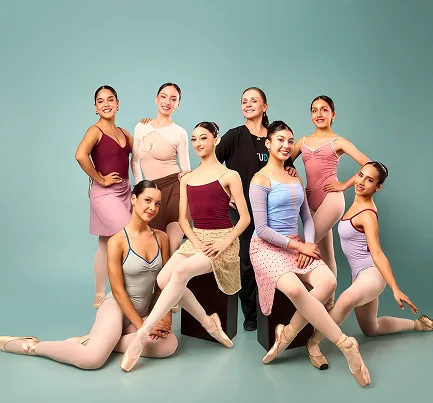
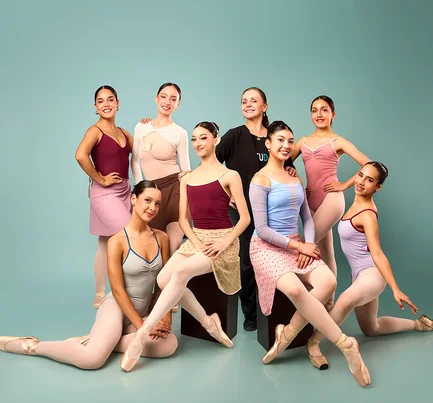
Foto grupal en 2x para pantallas retina
El cliente la veia borrosa: el archivo era de 433px nativos, o sea 1x
justo, y en un movil retina se mostraba interpolada.

Verificado que el x2 que enviaron tiene 1.36x mas detalle real que el
original ampliado, asi que no es un reescalado.

- foto-grupal.webp     433x403   23 KB  (1x, sale de reducir la 2x)
- foto-grupal@2x.webp  866x806   53 KB  (2x, mas comprimida porque se
                                         muestra a la mitad de tamaño)
- foto-grupal.png      433x403          (respaldo sin WebP)

Con srcset 1x/2x la version pesada solo la bajan las pantallas que la
aprovechan, y va lazy porque esta bajo el pliegue.

diff --git a/grangalaclassique2026/index.html b/grangalaclassique2026/index.html
@@ -280,9 +280,15 @@
 				<!-- ==================== FOTO GRUPAL ==================== -->
 				<figure class="groupshot">
 					<picture>
-						<source srcset="assets/images/foto-grupal.webp" type="image/webp" />
+						<source
+							type="image/webp"
+							srcset="
+								assets/images/foto-grupal.webp    1x,
+								assets/images/foto-grupal@2x.webp 2x
+							"
+						/>
 						<img
-							src="assets/images/Estudanza-fotogrupal.png"
+							src="assets/images/foto-grupal.png"
 							alt="Elenco de Estudanza posando en el estudio de ballet"
 							width="433"
 							height="403"
